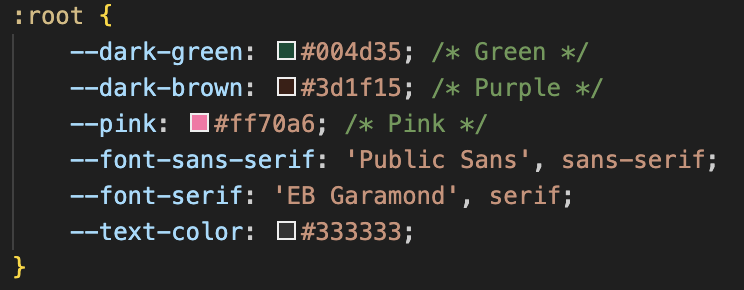
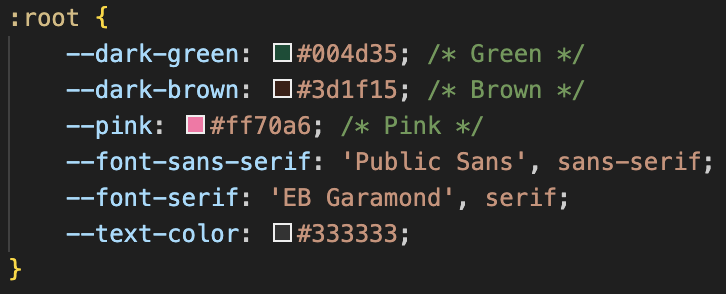
finish css for enhancements

diff --git a/project1/enhancements.html b/project1/enhancements.html
@@ -18,17 +18,17 @@
 
 </head>
 
-<body class="home-background">
+<body>
   <!-- Navigation Menu -->
   <header>
     <nav>
       <h1 class="logo2"><a href="index.html">SonixWave</a></h1>
       <ul>
         <li><a href="index.html">Home</a></li>
-        <li><a href="jobs.html" class="active">Recruitment</a></li>
+        <li><a href="jobs.html">Recruitment</a></li>
         <li><a href="apply.html">Apply Now</a></li>
         <li><a href="about.html">About Us</a></li>
-        <li><a href="enhancements.html">Enhancements</a></li>
+        <li><a href="enhancements.html" class="active">Enhancements</a></li>
         <li><a href="mailto:105028463@student.swin.edu.au, 
                     mailto:105192148@student.swin.edu.au">Contact</a></li>
       </ul>
@@ -37,14 +37,15 @@
 
   <div class="divider"></div>
 
-  <h1>Enhancements Implemented</h1>
+  <div class="enhancements">
+    <h1 class="page-title">Enhancements Implemented</h1>
 
     <section>
         <h2>1. CSS Variables for Colors and Fonts</h2>
         <p>This feature introduces CSS variables, defined in the <code>:root</code> selector, which allows you to store and reuse colors and fonts throughout the website. 
             By using variables like <code>--dark-green</code>, <code>--pink</code>, and <code>--font-sans-serif</code>, you avoid repeating color codes and font-family declarations multiple times. 
             This approach ensures consistency across the site and makes it easier to make changes in one place if needed.</p>
-        <a href="filename.html#id">
+        <a href="index.html">
             <img src="images/enhancementCode/code1.png" alt="CSS Variables for Colors and Fonts">
         </a>
     </section>
@@ -53,7 +54,7 @@
         <h2>2. Navigation Link Styling</h2>
         <p>The hover effect transitions smoothly over 0.3 seconds, changing the color to pink when hovered. 
            The transition effect ensures that the color change happens in a visually appealing way, rather than being instantaneous.</p>
-        <a href="filename.html#id">
+        <a href="enhancements.html">
             <img src="images/enhancementCode/code2.png" alt="Navigation Link Styling">
         </a>
     </section>
@@ -63,7 +64,7 @@
         <p>This enhancement applies styles directly to all radio buttons and checkboxes using the <code>input[type="radio"]</code> and <code>input[type="checkbox"]</code> selectors, rather than using classes or IDs.
             This saves time by allowing you to style all checkboxes and radio buttons in a uniform way without needing additional markup.
         </p>
-        <a href="filename.html#id">
+        <a href="apply.html#code3-for-enhancements">
             <img src="images/enhancementCode/code3.png" alt="Checkbox and Radio Button Styling">
         </a>
     </section>
@@ -74,10 +75,10 @@
             The buttons change color and increase in size when hovered over, using the <code>transform: scale(1.05)</code> property. 
             This gives the effect of the button "popping out," providing visual feedback. 
             Additionally, the <code>.heart</code> icon rotates slightly, giving it a dynamic and playful appearance.</p>
-        <a href="filename.html#id">
+        <a href="index.html#code4-for-enhancements">
             <img src="images/enhancementCode/code4.png" alt="Button Transformations">
         </a>
-        <a href="filename.html#id">
+        <a href="about.html">
             <img src="images/enhancementCode/code4b.png" alt="Icon Transformations">
         </a>
     </section>
@@ -87,7 +88,7 @@
         <p>This feature animates an icon using CSS keyframes. 
             The icon "floats" left and right with a smooth motion, giving the illusion of movement. 
             This effect is especially useful for drawing attention to specific elements on the page.</p>
-            <a href="filename.html#id">
+            <a href="index.html">
                 <img src="images/enhancementCode/code5.png" alt="Floating Animation">
             </a>
     </section>
@@ -97,7 +98,7 @@
         <p>This enhancement modifies the default text underline with various CSS properties. 
             The color, thickness, offset, and style of the underline are customized, making the underline more prominent and visually appealing. 
             The result is an eye-catching underline that complements the website's design, rather than a plain line.</p>
-        <a href="filename.html#id">
+        <a href="about.html">
             <img src="images/enhancementCode/code6.png" alt="Styled Underline">
         </a>
     </section>
@@ -105,7 +106,7 @@
     <section>
         <h2>7. Table Cell Styling</h2>
         <p>This enhancement applies styling to table cells <code>&lt;td&gt;&lt;/td&gt;</code> that contain content, avoiding the empty ones.</p>
-        <a href="filename.html#id">
+        <a href="about.html#code7-for-enhancements">
             <img src="images/enhancementCode/code7.png" alt="Table Cell Styling">
         </a>
     </section>
@@ -113,11 +114,11 @@
     <section>
         <h2>8. FontAwesome Icons</h2>
         <p>
-            <a href="https://fontawesome.com/" target="_blank" rel="noopener noreferrer">FontAwesome</a> icons are used to bring more visual interest to the site without the need for custom images. 
+            <a href="https://fontawesome.com/" target="_blank" rel="noopener noreferrer" class="link">FontAwesome</a> icons are used to bring more visual interest to the site without the need for custom images. 
             These scalable vector icons are simple to implement and improve the design of the page. 
             In this example, a headphone icon is added using the <code>&lt;i&gt;&lt;/i&gt;</code> tag with appropriate classes for styling.
         </p>        
-        <a href="filename.html#id">
+        <a href="index.html">
             <img src="images/enhancementCode/code8.png" alt="FontAwesome Icons">
         </a>
     </section>
@@ -128,10 +129,17 @@
             When entering the 5-alphanumeric-character job reference number in the application form, users must type the same reference number listed in the job description list for it to be valid. 
             This ensures accuracy and prevents incorrect applications.
         </p>        
-        <a href="filename.html#id">
+        <a href="apply.html#code9-for-enhancements">
             <img src="images/enhancementCode/code9.jpg" alt="Job Reference Number Validation">
         </a>
     </section>
+  </div>
+
+  <!-- Footer -->
+  <footer>
+    <p>&copy; 2025 SonixWave. All rights reserved.</p>
+    <p class="footer-logo">SonixWave</p>
+  </footer>
 
 </body>
 </html>

diff --git a/project1/styles/style.css b/project1/styles/style.css
@@ -10,11 +10,15 @@ description: refer to index.html, jobs.html, apply.html, about.html, enhancement
 /* General Styles */
 :root {
     --dark-green: #004d35; /* Green */
-    --dark-brown: #3d1f15; /* Purple */
+    --dark-brown: #3d1f15; /* Brown */
     --pink: #ff70a6; /* Pink */
     --font-sans-serif: 'Public Sans', sans-serif;
     --font-serif: 'EB Garamond', serif;
     --text-color: #333333;
+}
+
+html {
+    scroll-behavior: smooth;
 }
 
 body {
@@ -723,6 +727,73 @@ footer {
 }
 
 .email a:hover {
+    background-color: var(--pink);
+    color: white;
+}
+
+/* ENHANCEMENT */
+.enhancements {
+    display: grid;
+    grid-template-columns: repeat(auto-fit, minmax(400px, 1fr));
+    gap: 35px;
+    padding: 40px;
+}
+
+.enhancements section {
+    background-color: white;
+    padding: 20px;
+    border-radius: 15px;
+    box-shadow: 0 4px 8px rgba(0, 0, 0, 0.1);
+    text-align: center;
+    transition: transform 0.3s ease-in-out;
+}
+
+.enhancements section:hover {
+    transform: translateY(-5px);
+}
+
+.enhancements h1 {
+    grid-column: span 2;
+    text-align: center;
+    /* font-size: 2em; */
+    margin-bottom: 20px;
+}
+
+.enhancements h2 {
+    font-size: 1.8em;
+    margin-bottom: 10px;
+    color: var(--dark-brown);
+    font-family: var(--font-serif);
+}
+
+.enhancements p {
+    font-size: 1.05em;
+    color: #444;
+    line-height: 1.6;
+}
+
+.enhancements a img {
+    width: 100%;
+    max-width: 400px;
+    height: auto;
+    margin-top: 10px;
+    border-radius: 10px;
+    box-shadow: 0 2px 5px rgba(0, 0, 0, 0.1);
+    transition: transform 0.3s ease-in-out;
+}
+
+.enhancements a img:hover {
+    transform: scale(1.05);
+}
+
+.link {
+    margin-left: 5px;
+    text-decoration: none;
+    color: var(--dark-green);
+    transition: color 0.3s ease-in-out, background-color 0.3s ease-in-out;
+}
+
+.link:hover {
     background-color: var(--pink);
     color: white;
 }

diff --git a/project1/apply.html b/project1/apply.html
@@ -39,7 +39,7 @@
   <main>
     <h1 class="page-title" id="form-title">Job Application</h1>
     <form action="https://mercury.swin.edu.au/it000000/formtest.php" method="post">
-      <fieldset data-aos="fade-up" data-aos-duration="1000" data-aos-once="true">
+      <fieldset data-aos="fade-up" data-aos-duration="1000" data-aos-once="true" id="code3-for-enhancements">
         <legend>Personal Details</legend>
         <label for="first-name">First Name:</label>
         <input type="text" id="first-name" name="first-name" 
@@ -96,7 +96,7 @@
         pattern="\d{4}" required
         title="The postcode can only have digits with a maximum of 4."><br>
 
-        <label for="email">Email:</label>
+        <label for="email" id="code9-for-enhancements">Email:</label>
         <input type="email" id="email" name="email" required><br>
 
         <label for="phone-num">Phone Number:</label>
@@ -104,7 +104,7 @@
         pattern="[0-9 ]{8,12}" required><br>
       </fieldset>
 
-      <fieldset data-aos="fade-up" data-aos-duration="1000" data-aos-once="true">
+      <fieldset data-aos="fade-up" data-aos-duration="1000" data-aos-once="true" >
         <legend>Job Application Details</legend>
         <label for="reference-num">Job Reference Number:</label>
         <input type="text" id="reference-num" name="reference" 

diff --git a/project1/index.html b/project1/index.html
@@ -39,8 +39,8 @@
   <section id="company-description" class="hero-section">
     <figure class="hero-content">
         <!-- <img src="styles/images/company-banner.png" alt="Company Graphic" class="hero-image"> -->
-        <i class="hero-icon left shadow fa-solid fa-headphones "></i>
-        <i class="hero-icon left fa-solid fa-headphones "></i>
+        <i class="hero-icon left shadow fa-solid fa-headphones"></i>
+        <i class="hero-icon left fa-solid fa-headphones"></i>
         <i class="hero-icon right shadow fa-solid fa-guitar"></i>
         <i class="hero-icon right fa-solid fa-guitar"></i>
 
@@ -52,7 +52,7 @@
                 Whether you're a business seeking cutting-edge tech or an artist looking for digital transformation, we orchestrate success through creativity and technology.
             </p>
             <div class="hero-buttons">
-                <a href="jobs.html" class="btn primary-btn">Explore Jobs</a>
+                <a href="jobs.html" class="btn primary-btn" id="code4-for-enhancements">Explore Jobs</a>
                 <a href="apply.html" class="btn secondary-btn">Join Us</a>
             </div>
         </figcaption>

diff --git a/project1/about.html b/project1/about.html
@@ -122,7 +122,7 @@
         </div>
     </section>    
 
-    <section class="timetable" data-aos="fade-up" data-aos-duration="800" data-aos-once="true">
+    <section class="timetable" id="code7-for-enhancements" data-aos="fade-up" data-aos-duration="800" data-aos-once="true">
         <h1>Our Timetable</h1>
         <table>
             <thead>
